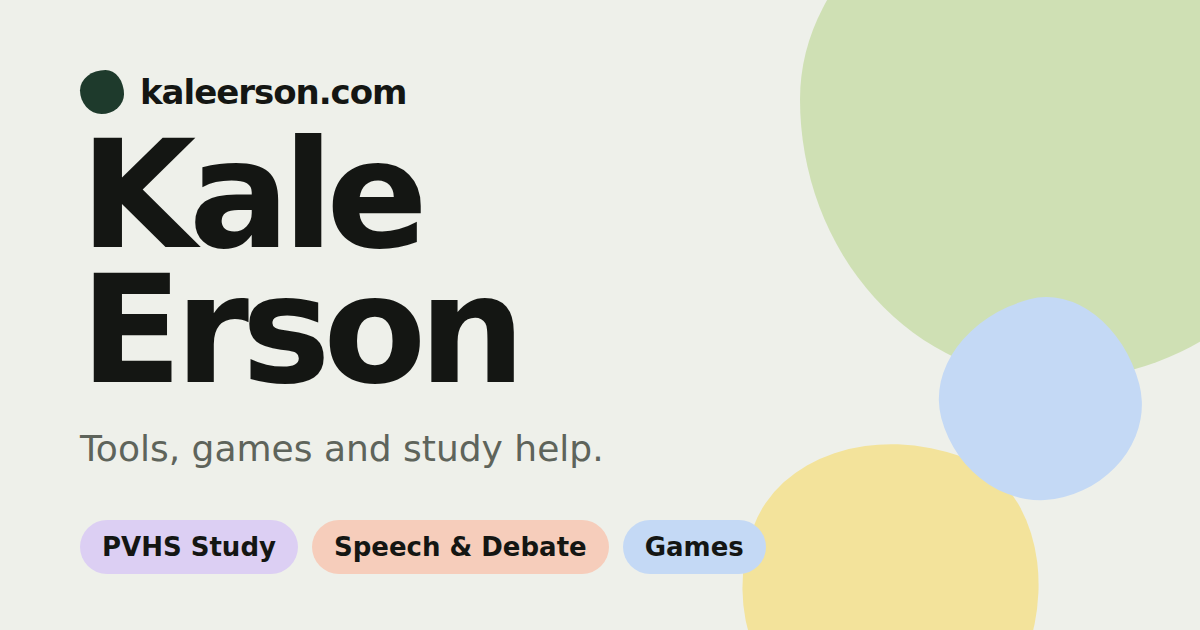
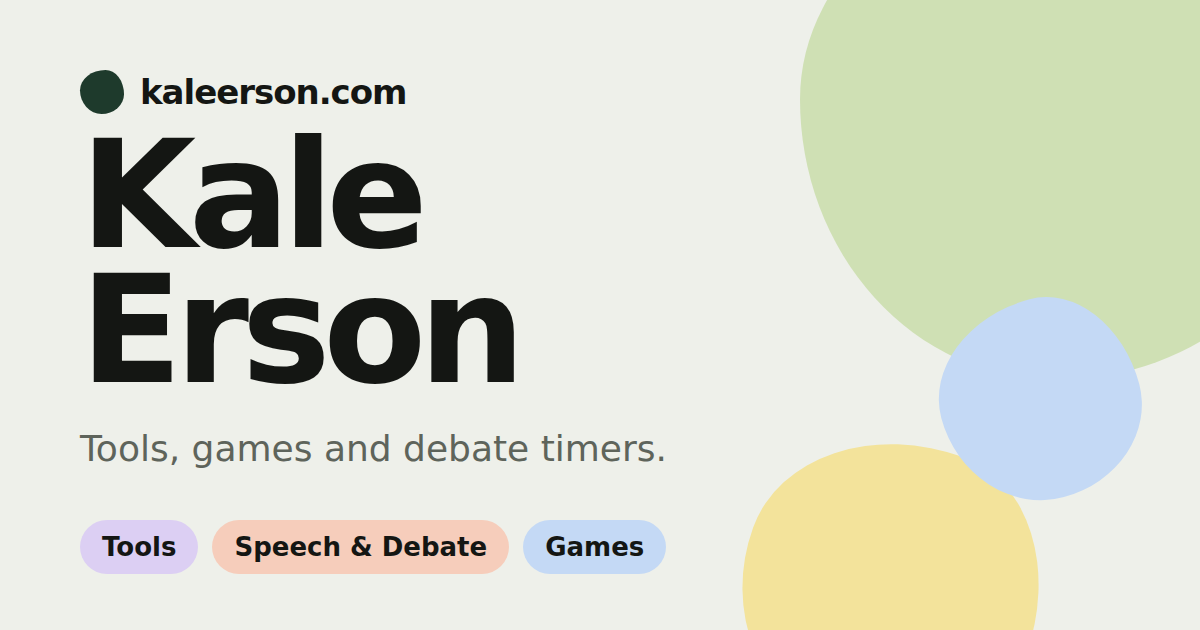
Homepage: remove PVHS Study mentions
- 'Now · Palo Verde HS study site' box replaced with a Forum box; PVHS Study card left
  off the homepage tool grid (still on Tools and /study)
- Link-preview image chips: Tools, Speech & Debate, Games

Claude-Session: https://claude.ai/code/session_01NyKGtDEnajGU1eFKV4tGGr

Changed region(s): [[0.0617, 0.8143, 0.6475, 0.9349], [0.3392, 0.6937, 0.555, 0.754]]

diff --git a/index.html b/index.html
@@ -70,11 +70,11 @@
       <span class="muted" id="clockday"></span>
     </section>
 
-    <a class="b s2 forest now wide-m" href="/study/" aria-label="Now: Palo Verde HS study site">
+    <a class="b s2 forest now wide-m" href="/forum/" aria-label="Community: forum">
       <span class="blob"></span><span class="blob b2 two"></span>
-      <span class="lbl">Now</span>
-      <h2 style="font-size:clamp(26px,2.6vw,32px);line-height:1.05;position:relative">Palo Verde HS study site</h2>
-      <div class="foot" style="position:relative"><span class="muted">Now Live</span><span class="arrow"></span></div>
+      <span class="lbl">Community</span>
+      <h2 style="font-size:clamp(26px,2.6vw,32px);line-height:1.05;position:relative">Forum</h2>
+      <div class="foot" style="position:relative"><span class="muted" style="max-width:15ch">Ask questions and share ideas</span><span class="arrow"></span></div>
     </a>
 
     <div class="bento s6" style="grid-column:1/-1" id="tools"></div>
@@ -117,10 +117,11 @@ function tick(){const now=new Date();const o={timeZone:'America/Los_Angeles'};
 tick();setInterval(tick,10000);
 
 // tools
-const ICONS={'PVHS Study':'<svg viewBox="0 0 24 24" fill="none" stroke="currentColor" stroke-width="2" stroke-linecap="round" stroke-linejoin="round"><path d="M4 5a2 2 0 0 1 2-2h13v16H6a2 2 0 0 0-2 2z"/><path d="M4 19V5M9 7h6"/></svg>',
+const ICONS={
   Snapwit:'<svg viewBox="0 0 24 24" fill="none" stroke="currentColor" stroke-width="2" stroke-linecap="round" stroke-linejoin="round"><path d="M13 2 4 14h7l-1 8 9-12h-7z"/></svg>',
   'Speech & Debate':'<svg viewBox="0 0 24 24" fill="none" stroke="currentColor" stroke-width="2" stroke-linecap="round" stroke-linejoin="round"><rect x="9" y="2" width="6" height="12" rx="3"/><path d="M5 10a7 7 0 0 0 14 0M12 17v5M8 22h8"/></svg>','Games':'<svg viewBox="0 0 24 24" fill="none" stroke="currentColor" stroke-width="2" stroke-linecap="round" stroke-linejoin="round"><rect x="2" y="6" width="20" height="12" rx="6"/><path d="M7 10v4M5 12h4"/><circle cx="15.5" cy="11" r="1"/><circle cx="18" cy="13.5" r="1"/></svg>','LD Timer':'<svg viewBox="0 0 24 24" fill="none" stroke="currentColor" stroke-width="2" stroke-linecap="round" stroke-linejoin="round"><circle cx="12" cy="13" r="8"/><path d="M12 9v4l2 2M9 2h6"/></svg>'};
-document.getElementById('tools').outerHTML=C.tools.map(t=>{const tag=t.href?'a':'div',open=t.href?`a href="${t.href}"`:'div';return `<${open} class="b ${C.tools.length%3===0?'s2':'s3'} ${t.color} tool wide-m"><span class="blob"></span><div class="icon">${ICONS[t.name]||''}</div><span class="lbl">Tool · ${S.esc(t.tag)}</span><h2>${S.esc(t.name)}</h2><div class="foot"><span class="muted">${S.esc(t.note)}</span>${t.href?S.arrow:S.statusChip(t.status||'dev')}</div></${tag}>`}).join('');
+const HOME_TOOLS=C.tools.filter(t=>t.name!=='PVHS Study');
+document.getElementById('tools').outerHTML=HOME_TOOLS.map(t=>{const tag=t.href?'a':'div',open=t.href?`a href="${t.href}"`:'div';return `<${open} class="b ${HOME_TOOLS.length%3===0?'s2':'s3'} ${t.color} tool wide-m"><span class="blob"></span><div class="icon">${ICONS[t.name]||''}</div><span class="lbl">Tool · ${S.esc(t.tag)}</span><h2>${S.esc(t.name)}</h2><div class="foot"><span class="muted">${S.esc(t.note)}</span>${t.href?S.arrow:S.statusChip(t.status||'dev')}</div></${tag}>`}).join('');
 
 // projects
 const COL={peach:'var(--peach)',sky:'var(--sky)',butter:'var(--butter)',moss:'var(--moss)',lilac:'var(--lilac)'};
